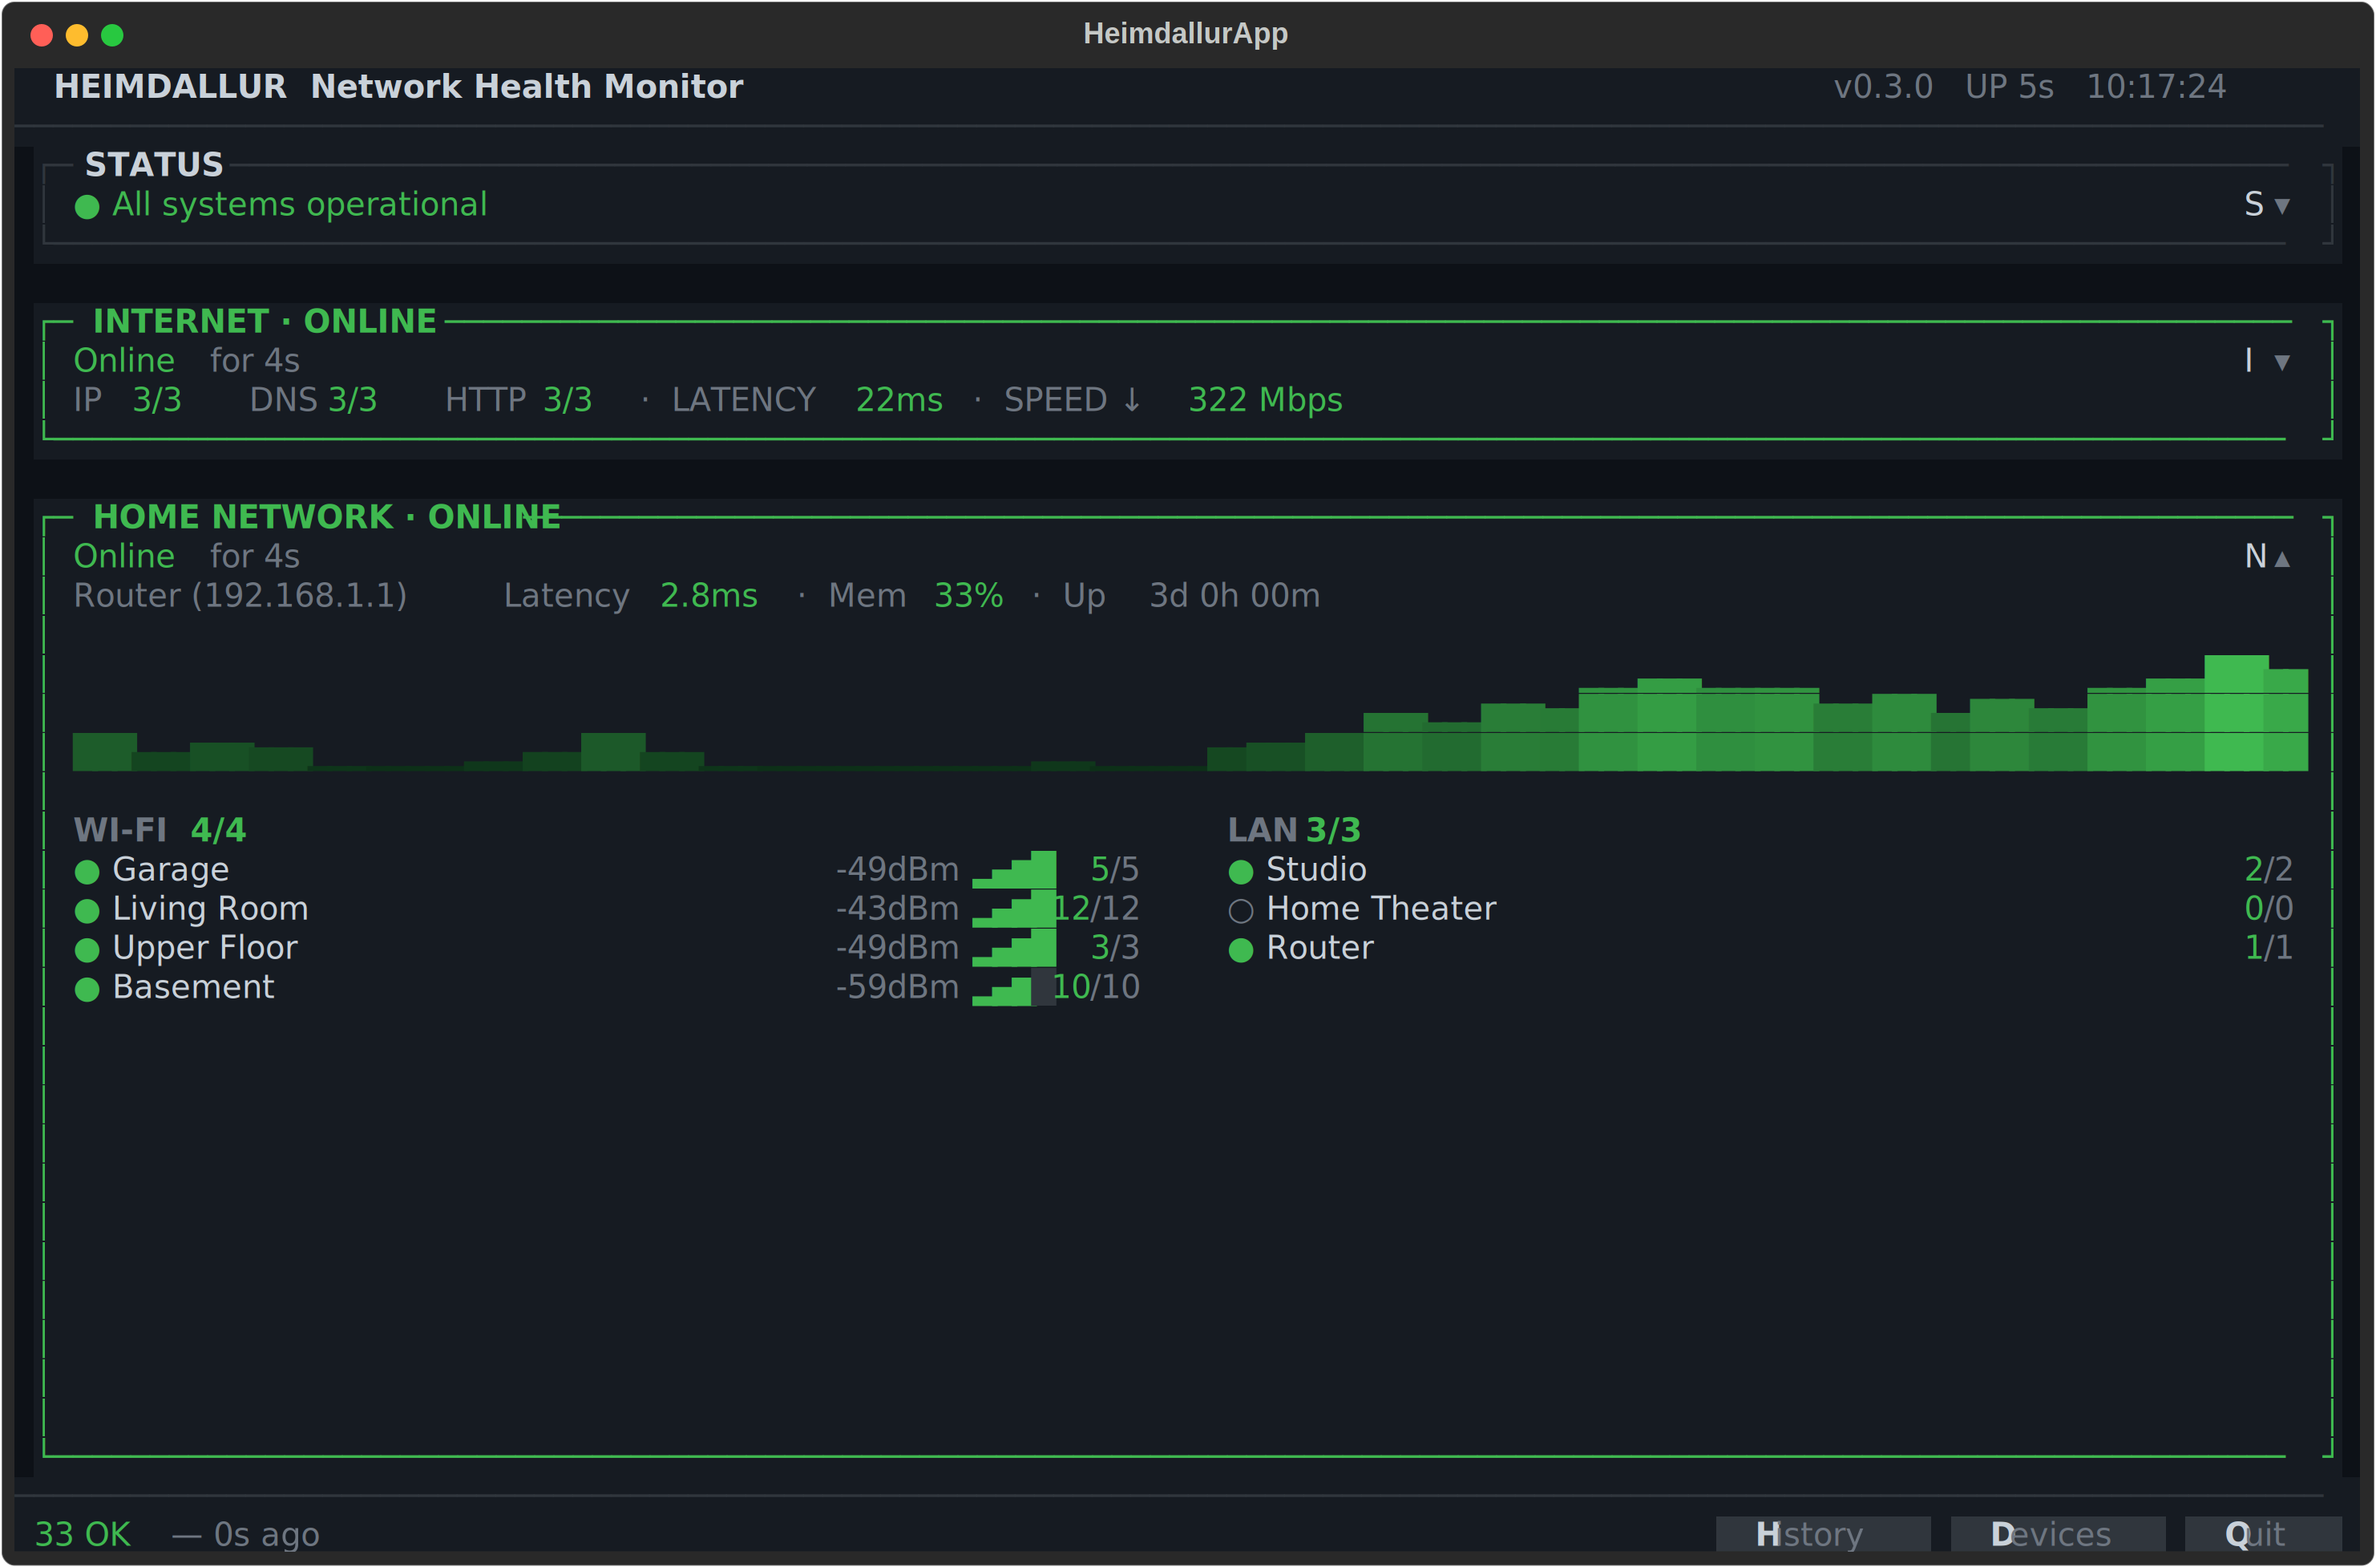
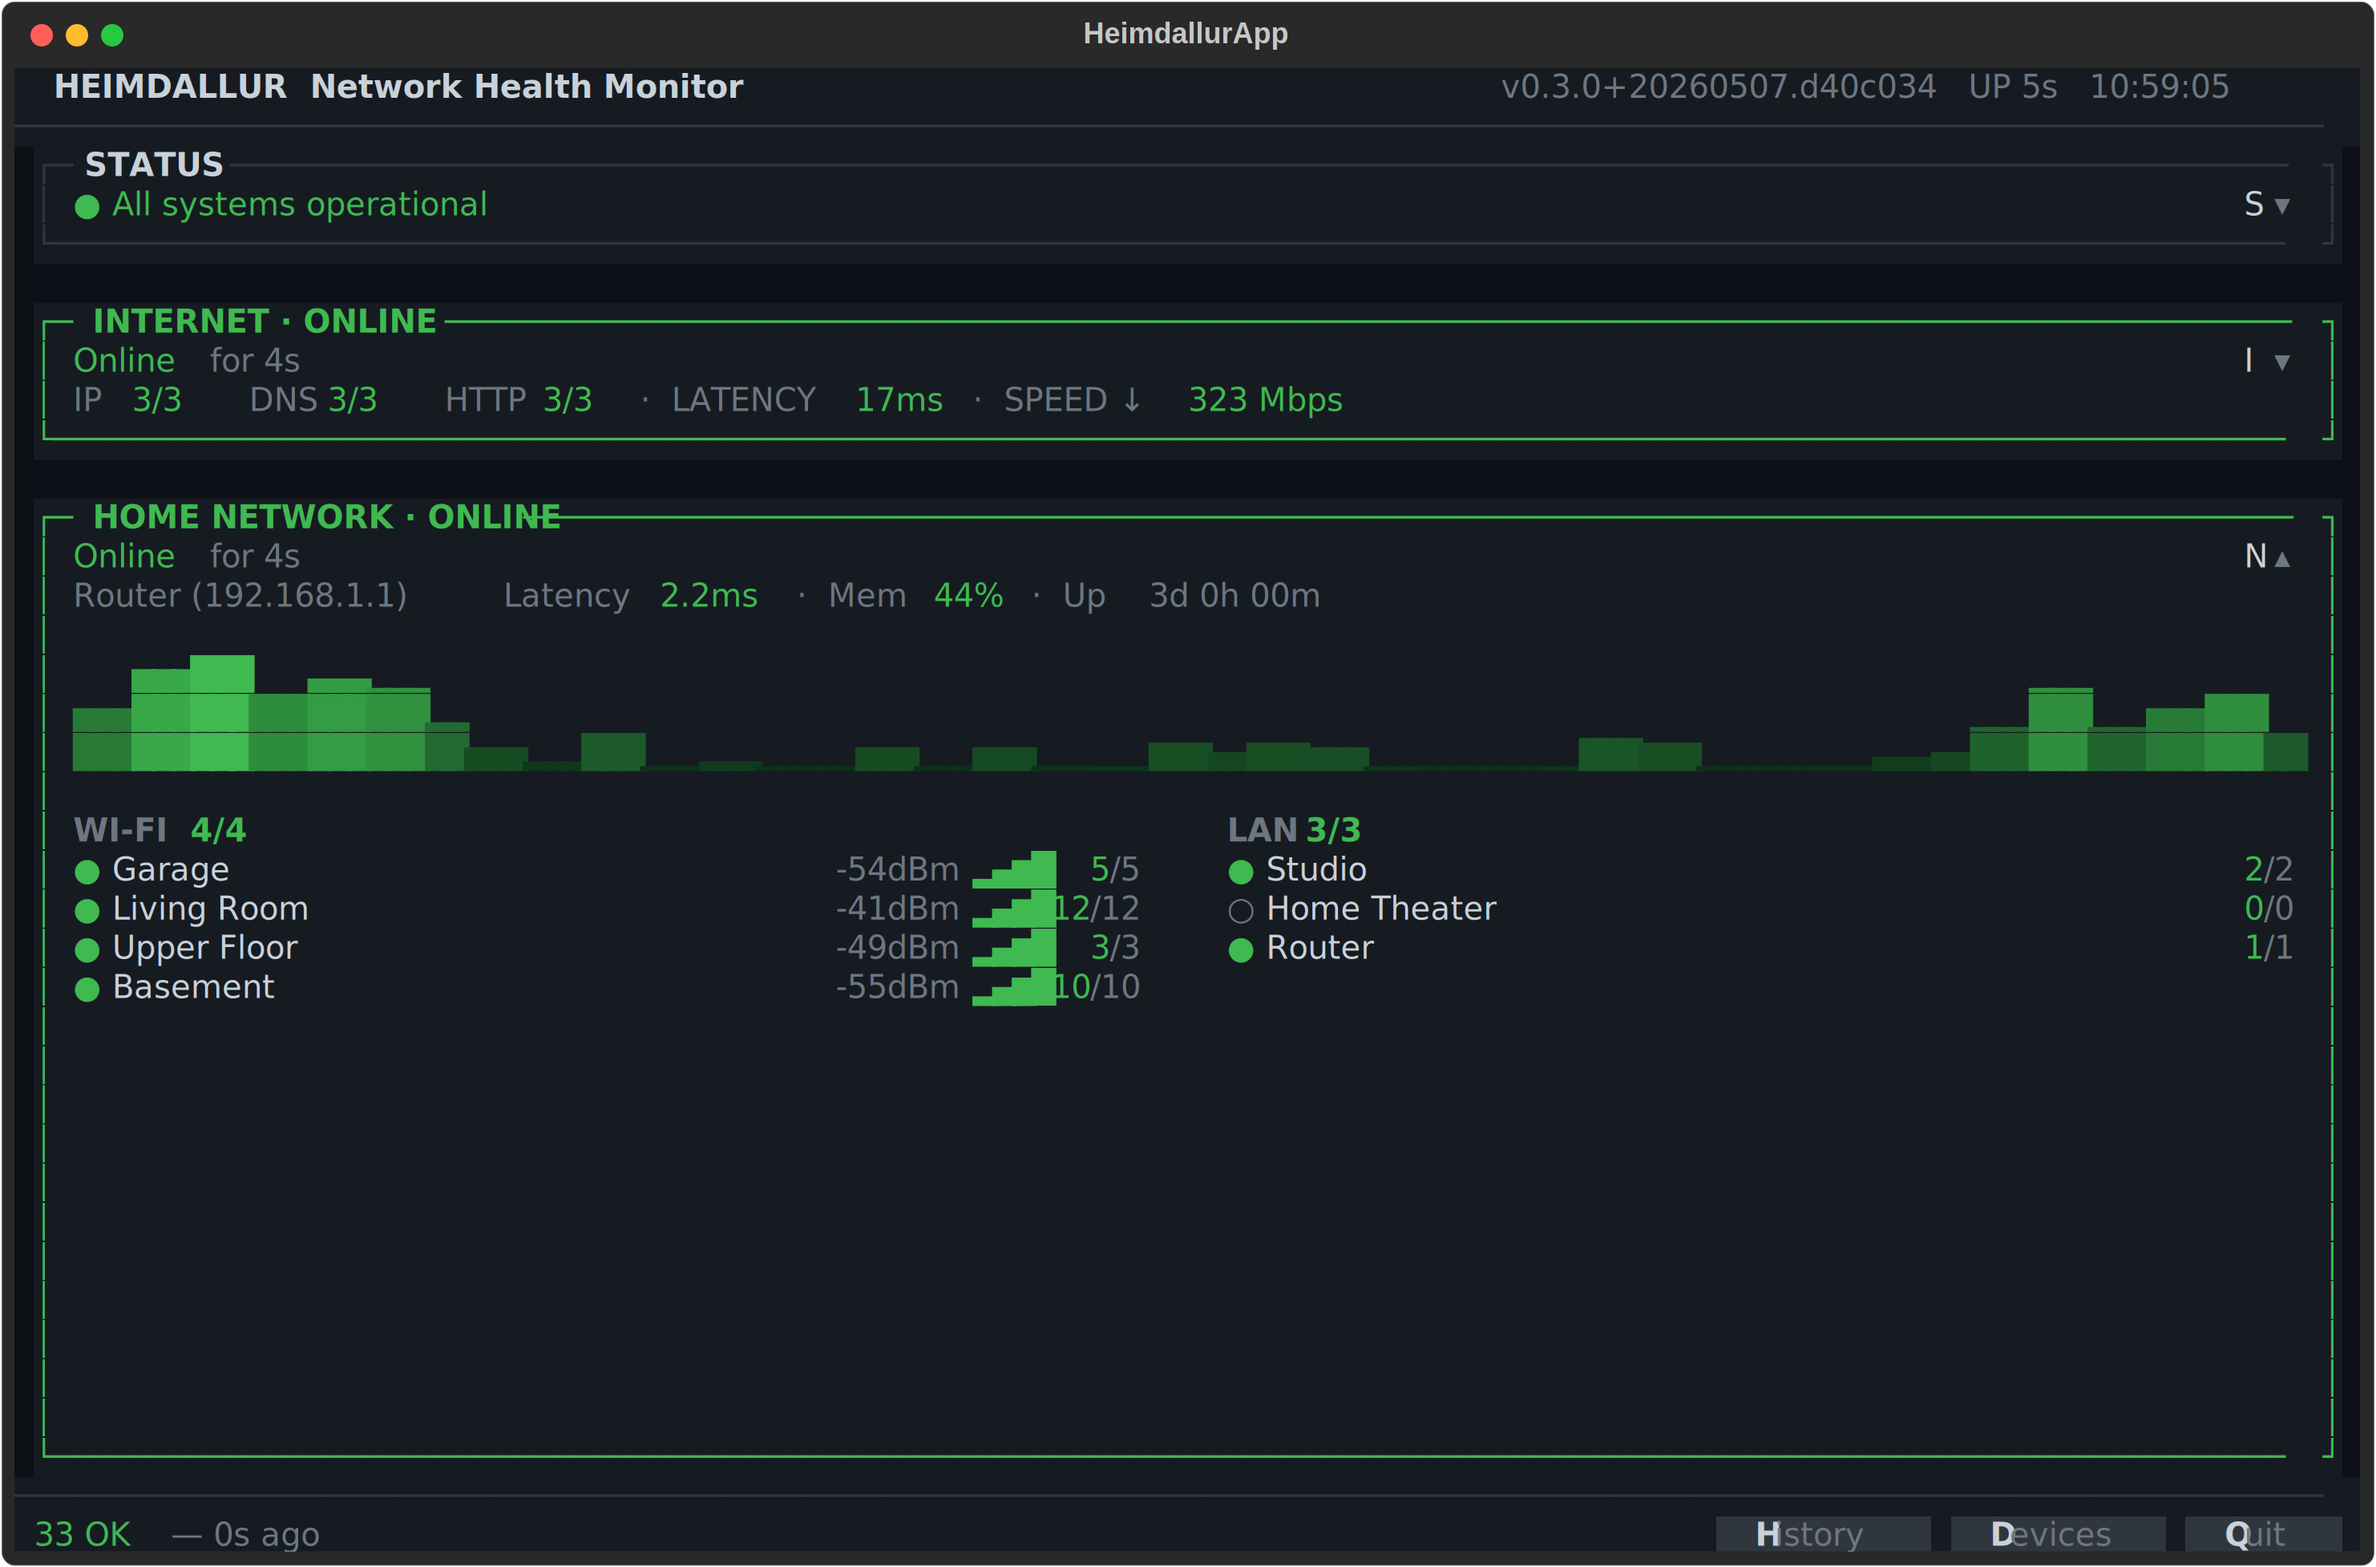
Update screenshots and README to reflect build version format
Screenshots now show v0.3.0+20260507.d40c034 in the footer.
README explains the format instead of pointing to git log.

https://claude.ai/code/session_01CZ9jnRor24XicojntW4x3B

diff --git a/README.md b/README.md
@@ -89,11 +89,7 @@ To trigger an immediate update without waiting for the timer:
 sudo systemctl start heimdallur-update
 ```
 
-To check the currently running version:
-
-```bash
-cd /opt/heimdallur && git log -1 --oneline
-```
+The footer shows the running version as `v0.3.0+20260507.d40c034` — date and git hash — so you can identify the exact commit at a glance and match it against the GitHub commit list without running any commands.
 
 ---
 
